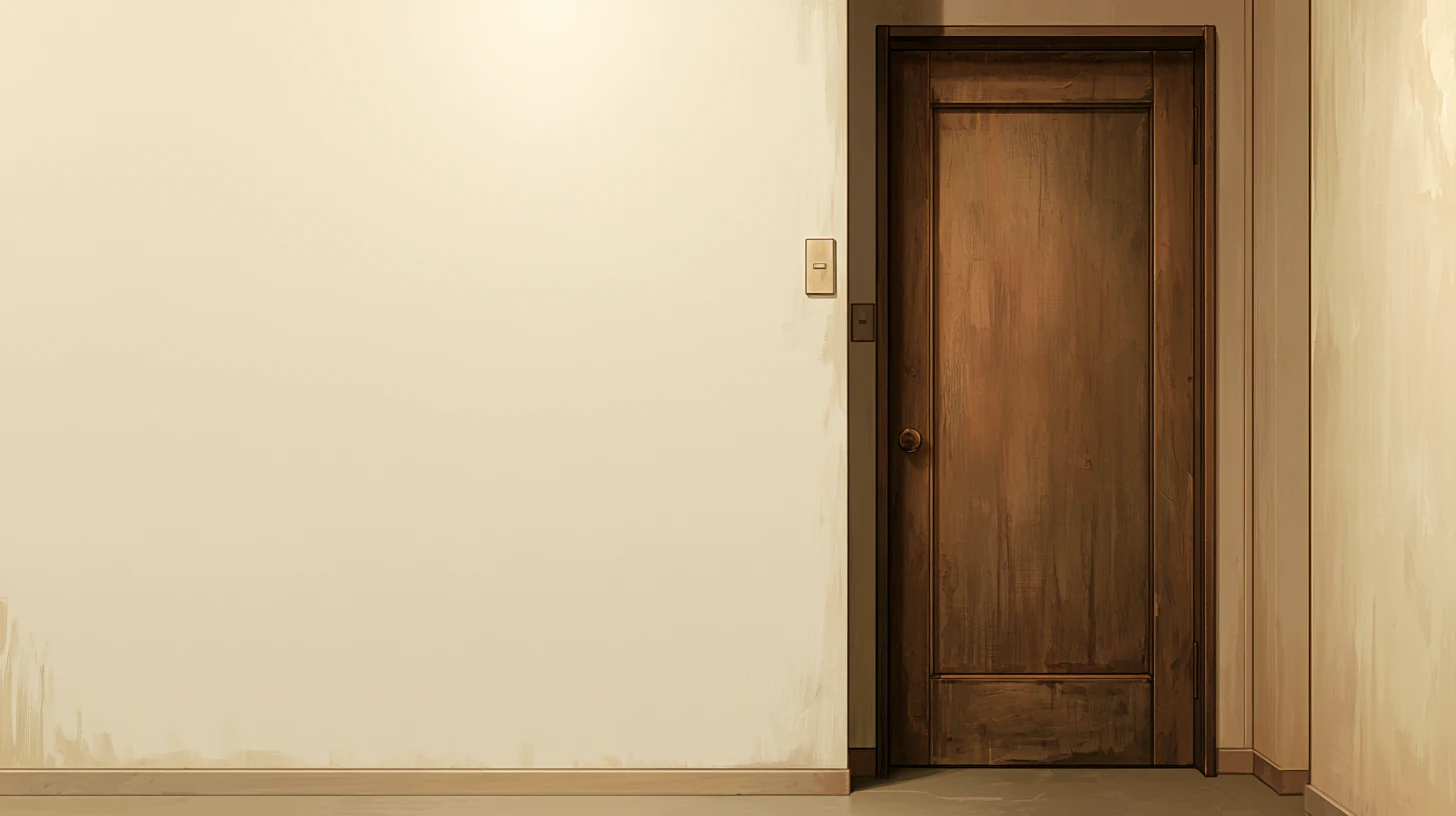
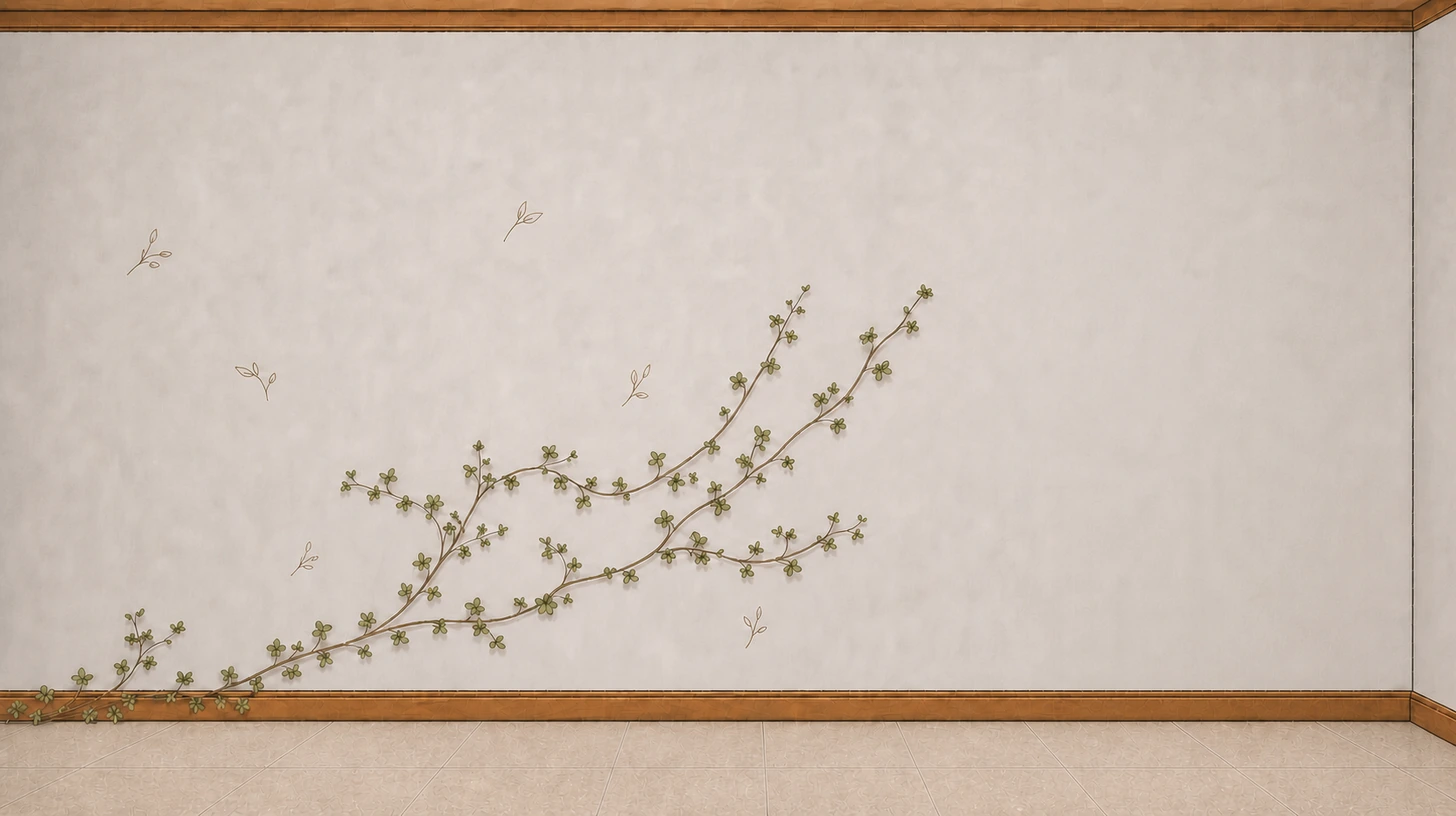
Migrate the 0.4.0 scene artwork

diff --git a/src/client/config/scenes/room.js b/src/client/config/scenes/room.js
@@ -18,54 +18,96 @@ export const roomScene = Object.freeze({
       id: "background",
       type: "image",
       source: sceneAssets.room.background,
-      alt: "正视房间：左侧是书架，中央是书桌，右侧是房门。",
+      alt: "安静温暖的正视房间，木地板与浅色墙面为家具留出清晰的布置空间。",
       z: 0,
     },
   ],
   objects: [
+    {
+      id: "rug",
+      label: "地毯",
+      kind: "decor",
+      interactive: false,
+      visualSource: sceneAssets.room.rug,
+      hitArea: { x: 23.283, y: 83.701, width: 53.9835, height: 14.2157 },
+      z: 10,
+    },
+    {
+      id: "door",
+      label: "房门",
+      kind: "scene",
+      visualSource: sceneAssets.room.doorClosed,
+      hitArea: { x: 74.9313, y: 18.2598, width: 17.4451, height: 66.0539 },
+      hintAnchor: { x: 83.65, y: 19.5 },
+      hint: { title: "走到门外", text: "旧信箱就在门外" },
+      dialogueId: "room.leave",
+      action: { type: "scene", target: "doorway" },
+      z: 20,
+    },
+    {
+      id: "bulletin-board",
+      label: "公告板",
+      kind: "decor",
+      interactive: false,
+      visualSource: sceneAssets.room.bulletinBoard,
+      hitArea: { x: 35.3022, y: 19.4853, width: 27.9533, height: 28.4314 },
+      z: 30,
+    },
     {
       id: "bookshelf",
       label: "书架",
       kind: "feature",
       movable: true,
       visualSource: sceneAssets.room.bookshelf,
-      hitArea: {
-        x: 9.765716522569125,
-        y: 21.706620937968175,
-        width: 24,
-        height: 58.4,
-      },
-      hintAnchor: { x: 21.765716522569125, y: 22.106620937968175 },
+      hitArea: { x: 5.2198, y: 19.3627, width: 22.4588, height: 68.3824 },
+      hintAnchor: { x: 16.45, y: 19.75 },
       hint: { title: "打开书架", text: "翻看整理过的故事" },
       dialogueId: "room.bookshelf",
       action: { type: "feature", target: "openBookshelf" },
+      z: 40,
+    },
+    {
+      id: "plant",
+      label: "绿植",
+      kind: "decor",
+      interactive: false,
+      movable: true,
+      visualSource: sceneAssets.room.plant,
+      hitArea: { x: 25.9615, y: 61.152, width: 8.1731, height: 25.2451 },
+      z: 50,
     },
     {
       id: "desk",
       label: "书桌",
       kind: "feature",
       movable: true,
-      visualSource: sceneAssets.room.deskChair,
-      hitArea: {
-        x: 35.99140955816244,
-        y: 45.63287661830802,
-        width: 28,
-        height: 33,
-      },
-      hintAnchor: { x: 56.99140955816244, y: 46.03287661830802 },
+      visualSource: sceneAssets.room.deskClosed,
+      hitArea: { x: 34.6154, y: 60.9069, width: 32.0742, height: 28.1863 },
+      hintAnchor: { x: 63.2, y: 59.9 },
       hint: { title: "前往书桌", text: "纸页还在等你" },
       dialogueId: "room.desk",
       action: { type: "feature", target: "openWorkbench" },
+      z: 60,
     },
     {
-      id: "door",
-      label: "房门",
-      kind: "scene",
-      hitArea: { x: 81.5, y: 14, width: 15.5, height: 64 },
-      hintAnchor: { x: 84.5, y: 15 },
-      hint: { title: "走到门外", text: "旧信箱就在门外" },
-      dialogueId: "room.leave",
-      action: { type: "scene", target: "doorway" },
+      id: "desk-lamp",
+      label: "台灯",
+      kind: "decor",
+      interactive: false,
+      movable: true,
+      visualSource: sceneAssets.room.lampOff,
+      hitArea: { x: 56.5247, y: 47.3039, width: 6.7995, height: 15.4412 },
+      z: 70,
+    },
+    {
+      id: "chair",
+      label: "椅子",
+      kind: "decor",
+      interactive: false,
+      movable: true,
+      visualSource: sceneAssets.room.chairBack,
+      hitArea: { x: 40.4533, y: 56.8627, width: 10.8516, height: 35.4167 },
+      z: 80,
     },
   ],
 });

diff --git a/src/client/config/scenes/doorway.js b/src/client/config/scenes/doorway.js
@@ -12,31 +12,43 @@ export const doorwayScene = Object.freeze({
       id: "background",
       type: "image",
       source: sceneAssets.doorway.background,
-      alt: "公寓门外的走廊：左侧是信箱所在的空墙，右侧是房门。",
+      alt: "安静温暖的公寓走廊，藤蔓沿左侧墙面生长，信箱与房门位于右侧。",
       z: 0,
     },
   ],
   objects: [
     {
+      id: "door",
+      label: "房门",
+      kind: "scene",
+      visualSource: sceneAssets.doorway.door,
+      hitArea: { x: 74.18, y: 14.95, width: 20.05, height: 74.25 },
+      hintAnchor: { x: 84.2, y: 17 },
+      hint: { title: "进入房间", text: "推门回到书写的地方" },
+      dialogueId: "doorway.enterRoom",
+      action: { type: "scene", target: "room" },
+      z: 10,
+    },
+    {
+      id: "lamp",
+      label: "走廊壁灯",
+      kind: "decor",
+      interactive: false,
+      visualSource: sceneAssets.doorway.lamp,
+      hitArea: { x: 67.08, y: 24.15, width: 5.05, height: 11.55 },
+      z: 20,
+    },
+    {
       id: "mailbox",
       label: "信箱",
       kind: "feature",
       visualSource: sceneAssets.doorway.mailbox,
-      hitArea: { x: 17, y: 38.6, width: 14, height: 16.8 },
-      hintAnchor: { x: 24, y: 37.6 },
+      hitArea: { x: 66.48, y: 42.75, width: 6.35, height: 13.05 },
+      hintAnchor: { x: 69.65, y: 41.75 },
       hint: { title: "查看信箱", text: "里面似乎多了一封信" },
       dialogueId: "doorway.mailbox",
       action: { type: "feature", target: "openLetter" },
-    },
-    {
-      id: "door",
-      label: "房门",
-      kind: "scene",
-      hitArea: { x: 58, y: 3, width: 26, height: 92 },
-      hintAnchor: { x: 71, y: 8 },
-      hint: { title: "进入房间", text: "推门回到书写的地方" },
-      dialogueId: "doorway.enterRoom",
-      action: { type: "scene", target: "room" },
+      z: 30,
     },
   ],
 });

diff --git a/src/client/config/scene-assets.js b/src/client/config/scene-assets.js
@@ -5,11 +5,19 @@ export const sceneAssets = Object.freeze({
   room: Object.freeze({
     placeholderBackground: `${SCENE_ASSET_ROOT}/room/room-placeholder-v01.png`,
     background: `${SCENE_ASSET_ROOT}/room/background-base.webp`,
-    deskChair: `${SCENE_ASSET_ROOT}/room/desk-chair.png`,
+    rug: `${SCENE_ASSET_ROOT}/room/rug.png`,
+    doorClosed: `${SCENE_ASSET_ROOT}/room/door-closed.png`,
+    bulletinBoard: `${SCENE_ASSET_ROOT}/room/bulletin-board.png`,
     bookshelf: `${SCENE_ASSET_ROOT}/room/bookshelf.png`,
+    plant: `${SCENE_ASSET_ROOT}/room/plant.png`,
+    deskClosed: `${SCENE_ASSET_ROOT}/room/desk-closed.png`,
+    lampOff: `${SCENE_ASSET_ROOT}/room/lamp-off.png`,
+    chairBack: `${SCENE_ASSET_ROOT}/room/chair-back.png`,
   }),
   doorway: Object.freeze({
     background: `${SCENE_ASSET_ROOT}/doorway/background-base.webp`,
+    door: `${SCENE_ASSET_ROOT}/doorway/door.png`,
+    lamp: `${SCENE_ASSET_ROOT}/doorway/lamp.png`,
     mailbox: `${SCENE_ASSET_ROOT}/doorway/mailbox.png`,
   }),
 });

diff --git a/src/client/game/scene-runtime.js b/src/client/game/scene-runtime.js
@@ -72,7 +72,11 @@ export function createSceneRuntime({
       const button = objectsRoot.querySelector(`[data-scene-object-id="${sceneObject.id}"]`);
       if (!button) continue;
       const arrangingObject = mode === "arrange" && isMovable(sceneObject);
-      button.tabIndex = mode === "arrange" && !arrangingObject ? -1 : 0;
+      const interactiveObject = sceneObject.interactive !== false;
+      const exploringObject = mode === "explore" && interactiveObject;
+      const availableObject = arrangingObject || exploringObject;
+      button.tabIndex = availableObject ? 0 : -1;
+      button.toggleAttribute("aria-hidden", !availableObject);
       button.toggleAttribute("aria-keyshortcuts", arrangingObject);
       if (arrangingObject) {
         button.setAttribute("aria-keyshortcuts", "ArrowUp ArrowDown ArrowLeft ArrowRight");

diff --git a/src/client/game/scene-registry.js b/src/client/game/scene-registry.js
@@ -77,6 +77,12 @@ function validateScene(scene) {
     if (object.movable !== undefined && typeof object.movable !== "boolean") {
       throw new TypeError(`${scene.id}.${object.id}.movable 必须是布尔值。`);
     }
+    if (object.interactive !== undefined && typeof object.interactive !== "boolean") {
+      throw new TypeError(`${scene.id}.${object.id}.interactive 必须是布尔值。`);
+    }
+    if (object.z !== undefined && !Number.isFinite(object.z)) {
+      throw new TypeError(`${scene.id}.${object.id}.z 必须是有限数字。`);
+    }
     if (object.visualSource || object.visualSourceByPhase) {
       assertPhaseSource(
         object.visualSourceByPhase ?? object.visualSource,

diff --git a/src/client/game/scene-renderer.js b/src/client/game/scene-renderer.js
@@ -63,6 +63,8 @@ export function createSceneRenderer({
       button.dataset.sceneObjectKind = sceneObject.kind ?? "ambient";
       button.dataset.sceneObjectLabel = sceneObject.label;
       button.dataset.sceneObjectMovable = String(isMovable(sceneObject));
+      button.dataset.sceneObjectInteractive = String(sceneObject.interactive !== false);
+      button.style.zIndex = String(sceneObject.z ?? 0);
       button.setAttribute(
         "aria-label",
         [sceneObject.label, getObjectHintText(sceneObject)].filter(Boolean).join("："),

diff --git a/src/client/styles.css b/src/client/styles.css
@@ -2308,6 +2308,11 @@ html[data-time-mode="day"] .title-link:hover {
   transition: filter 400ms ease;
 }
 
+.scene-shell:not([data-interaction-mode="arrange"])
+  .scene-object[data-scene-object-interactive="false"] {
+  pointer-events: none;
+}
+
 .scene-object__marker {
   position: relative;
   z-index: 1;

diff --git a/src/client/game/scene-layout.js b/src/client/game/scene-layout.js
@@ -1,4 +1,4 @@
-export const SCENE_LAYOUT_STORAGE_KEY = "ithaca-journal.scene-layout.v1";
+export const SCENE_LAYOUT_STORAGE_KEY = "ithaca-journal.scene-layout.v2";
 
 function isFiniteCoordinate(value) {
   return Number.isFinite(value) && value >= 0 && value <= 100;

diff --git a/src/client/assets/scenes/README.md b/src/client/assets/scenes/README.md
@@ -1,16 +1,24 @@
 # Scene asset contract
 
-This directory is the production asset root for the 0.2.0 visual-novel scene system. Runtime URLs start with `/assets/scenes/`.
+This directory is the production asset root for the 0.4.0 visual-novel scene system. Runtime URLs start with `/assets/scenes/`.
 
 ```text
 scenes/
 ├── doorway/
-│   ├── background-base.webp   # corridor and door background
-│   └── mailbox.png            # transparent interactive object
+│   ├── background-base.webp   # empty corridor shell and wall decoration
+│   ├── door.png               # room-entry interaction
+│   ├── lamp.png               # fixed corridor decoration
+│   └── mailbox.png            # letter interaction
 └── room/
-    ├── background-base.webp   # room shell and door background
-    ├── desk-chair.png         # transparent interactive object
-    └── bookshelf.png          # transparent interactive object
+    ├── background-base.webp   # empty room shell
+    ├── rug.png                # fixed floor decoration
+    ├── door-closed.png        # doorway interaction
+    ├── bulletin-board.png     # fixed wall decoration
+    ├── bookshelf.png          # library interaction, movable
+    ├── plant.png              # movable decoration
+    ├── desk-closed.png        # writing interaction, movable
+    ├── lamp-off.png           # movable decoration
+    └── chair-back.png         # movable decoration
 ```
 
 The committed `room/room-placeholder-v01.png` is retained only as a historical fallback. Runtime scenes now use the processed assets listed above.
@@ -19,7 +27,8 @@ The committed `room/room-placeholder-v01.png` is retained only as a historical f
 
 - Logical scene ratio: approximately 16:9. The current Midjourney sources and runtime backgrounds are 1456 × 816; the build does not upscale them without adding detail.
 - Backgrounds: WebP, opaque, full source canvas.
-- Interactive objects: tightly cropped transparent PNG with stable padding. Their placement and rendered size are controlled by the scene object's `hitArea`.
+- Scene objects: tightly cropped transparent PNG with stable padding. Their placement, stacking and rendered size are controlled by the scene object's `hitArea` and `z`.
+- Decorative objects use `interactive: false`; they do not intercept exploration input, but movable decorations become available in arrangement mode.
 - Use lowercase kebab-case filenames and do not add version suffixes to final files.
 - Keep prompts, source files, third-party references, and local processing tools outside the runtime directory. Only production-cleared exports belong here.
 - Missing time-of-day variants must fall back to the base asset; do not duplicate the base image for every phase.

diff --git a/src/client/assets/scenes/room/README.md b/src/client/assets/scenes/room/README.md
@@ -4,9 +4,17 @@ The room scene currently uses the shared 1456 × 816 source camera.
 
 | File | Required | Layer responsibility |
 | --- | --- | --- |
-| `background-base.webp` | Yes, final art | Walls, floor and room-side door. Do not bake in the desk, chair or bookshelf. |
-| `desk-chair.png` | Yes, final art | Desk and chair as one transparent interactive layer. |
-| `bookshelf.png` | Yes, final art | Bookshelf as one transparent interactive layer. |
+| `background-base.webp` | Yes, final art | Empty walls, floor and architectural shell. |
+| `rug.png` | Yes, final art | Fixed floor decoration below all furniture. |
+| `door-closed.png` | Yes, final art | Room-side door and doorway interaction. |
+| `bulletin-board.png` | Yes, final art | Fixed wall decoration behind the writing area. |
+| `bookshelf.png` | Yes, final art | Movable bookshelf and library interaction. |
+| `plant.png` | Yes, final art | Movable room decoration. |
+| `desk-closed.png` | Yes, final art | Movable writing desk and workbench interaction. |
+| `lamp-off.png` | Yes, final art | Movable desk-lamp decoration. |
+| `chair-back.png` | Yes, final art | Movable chair decoration above the desk layer. |
 | `room-placeholder-v01.png` | Historical fallback | Migrated 0.1.0 composite image; no longer loaded by the default scene. |
+
+The production arrangement mirrors `art-source/0.4.0/scenes/room/03-decompose/decomposition-r004/layout.json`. Decorative layers do not receive focus or pointer input while exploring; movable layers become operable in arrangement mode.
 
 Only production-ready exports belong in this directory. Keep source artwork, processing tools, and verification workflows in the local development environment. Recalibrate `hitArea` and `hintAnchor` when a replacement changes the agreed camera composition.

diff --git a/src/client/assets/scenes/doorway/README.md b/src/client/assets/scenes/doorway/README.md
@@ -4,9 +4,11 @@ The doorway scene currently uses the shared 1456 × 816 source camera.
 
 | File | Required | Layer responsibility |
 | --- | --- | --- |
-| `background-base.webp` | Yes, final art | Corridor wall, floor and exterior side of the room door. Do not bake in the mailbox. |
+| `background-base.webp` | Yes, final art | Corridor shell, wall drawings and vine. Do not bake in the door, lamp or mailbox. |
+| `door.png` | Yes, final art | Exterior side of the room door and the room-entry interaction. |
+| `lamp.png` | Yes, final art | Fixed wall-lamp decoration. |
 | `mailbox.png` | Yes, final art | Mailbox as one transparent interactive layer. |
 
-The door may remain part of the background image in 0.2.0 because its interactive button and hit area are already independent from the pixels.
+The production arrangement mirrors `art-source/0.4.0/scenes/corridor/03-decompose/decomposition-r003/layout.json`.
 
 Only production-ready exports belong in this directory. Keep source artwork, processing tools, and verification workflows in the local development environment. Recalibrate `hitArea` and `hintAnchor` when a replacement changes the agreed camera composition.
